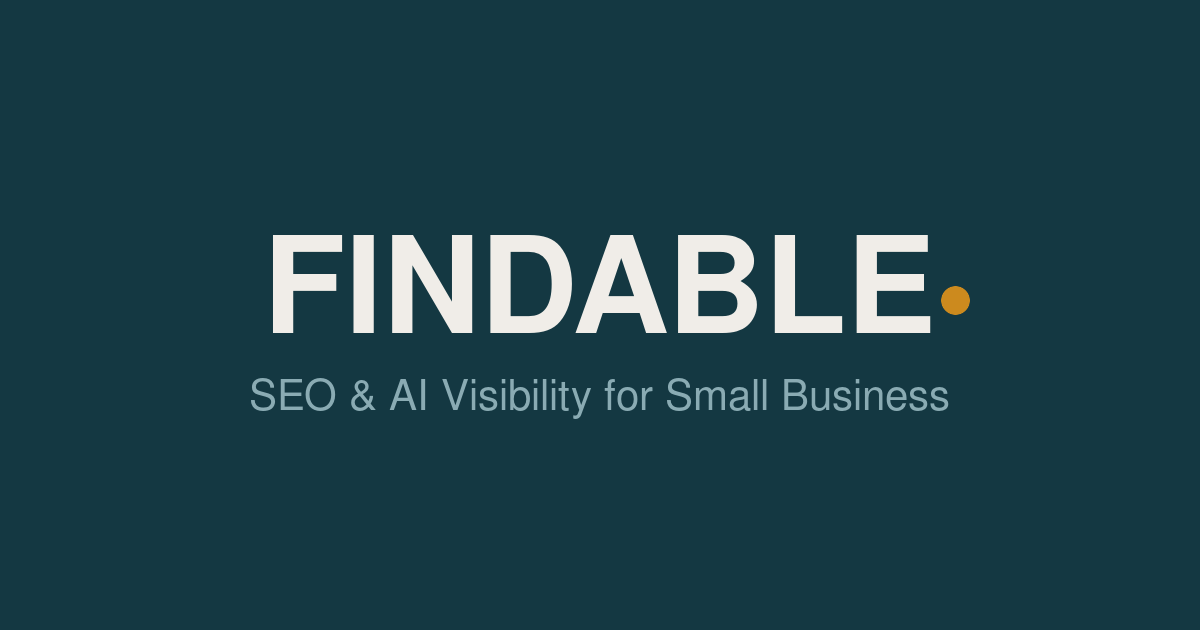
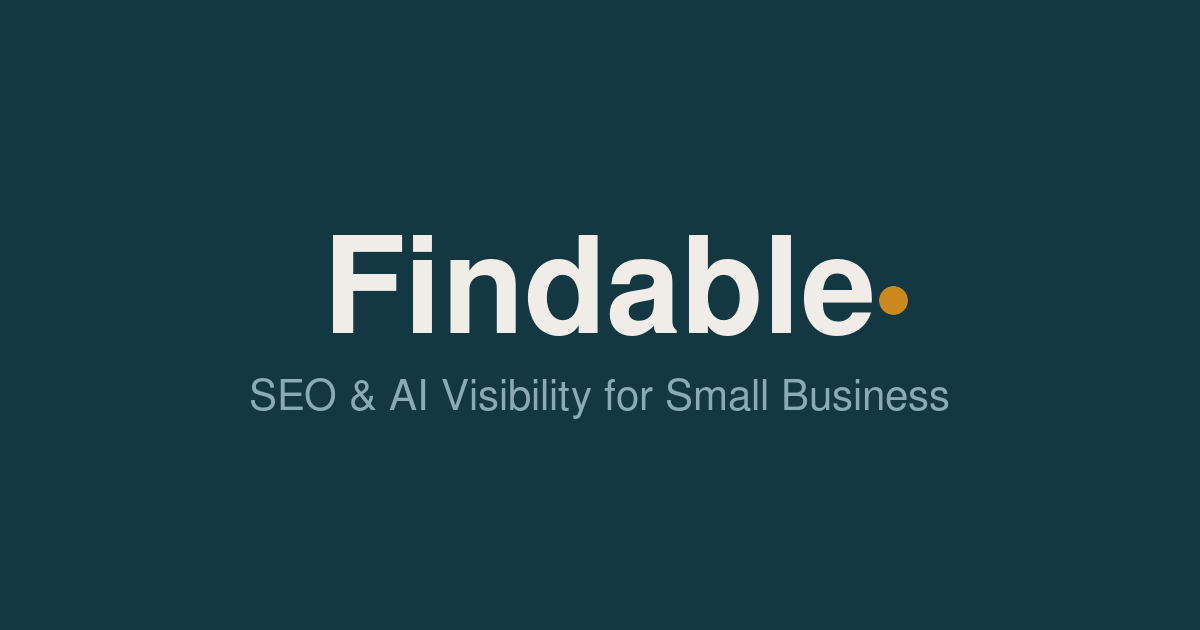
Revert to Findable. with original fonts, update OG image

Changed region(s): [[0.2158, 0.3619, 0.8325, 0.5429]]

diff --git a/index.html b/index.html
@@ -175,12 +175,10 @@
   }
   </script>
   <link rel="dns-prefetch" href="https://fonts.googleapis.com">
-  <link rel="dns-prefetch" href="https://fonts.cdnfonts.com">
   <link rel="preconnect" href="https://fonts.googleapis.com">
   <link rel="preconnect" href="https://fonts.gstatic.com" crossorigin>
-  <link href="https://fonts.cdnfonts.com/css/mosvita" rel="stylesheet">
-  <link rel="preload" as="style" href="https://fonts.googleapis.com/css2?family=Space+Grotesk:wght@400;500;600;700&display=swap" onload="this.onload=null;this.rel='stylesheet'">
-  <noscript><link href="https://fonts.googleapis.com/css2?family=Space+Grotesk:wght@400;500;600;700&display=swap" rel="stylesheet"></noscript>
+  <link rel="preload" as="style" href="https://fonts.googleapis.com/css2?family=Space+Grotesk:wght@400;500;600;700&family=Inter:wght@400;500;600&family=Outfit:wght@600;700;800;900&display=swap" onload="this.onload=null;this.rel='stylesheet'">
+  <noscript><link href="https://fonts.googleapis.com/css2?family=Space+Grotesk:wght@400;500;600;700&family=Inter:wght@400;500;600&family=Outfit:wght@600;700;800;900&display=swap" rel="stylesheet"></noscript>
   <style>
     *, *::before, *::after { margin: 0; padding: 0; box-sizing: border-box; }
 
@@ -202,7 +200,7 @@
     html { scroll-behavior: smooth; }
 
     body {
-      font-family: 'Mosvita', sans-serif;
+      font-family: 'Inter', sans-serif;
       background: var(--dark);
       color: var(--silver);
       line-height: 1.6;
@@ -234,7 +232,7 @@
     }
 
     .logo {
-      font-family: 'Mosvita', sans-serif;
+      font-family: 'Outfit', sans-serif;
       font-weight: 800;
       font-size: 1.2rem;
       letter-spacing: -0.5px;
@@ -329,7 +327,7 @@
     }
 
     .hero-title {
-      font-family: 'Mosvita', sans-serif;
+      font-family: 'Outfit', sans-serif;
       font-size: clamp(3.5rem, 10vw, 8rem);
       font-weight: 800;
       line-height: 1.0;
@@ -502,7 +500,7 @@
     }
 
     h2 {
-      font-family: 'Mosvita', sans-serif;
+      font-family: 'Outfit', sans-serif;
       font-size: clamp(2.5rem, 5vw, 4rem);
       font-weight: 800;
       letter-spacing: -1px;
@@ -550,7 +548,7 @@
     }
 
     .case-header .case-title {
-      font-family: 'Mosvita', sans-serif;
+      font-family: 'Outfit', sans-serif;
       font-size: clamp(2rem, 4vw, 3rem);
       font-weight: 800;
       color: var(--white);
@@ -583,7 +581,7 @@
     .stat-cell:hover { background: rgba(184,122,21,0.04); }
 
     .stat-cell .number {
-      font-family: 'Mosvita', sans-serif;
+      font-family: 'Outfit', sans-serif;
       font-size: clamp(2.5rem, 4vw, 3.5rem);
       font-weight: 800;
       color: var(--amber);
@@ -658,7 +656,7 @@
     }
 
     .client-name {
-      font-family: 'Mosvita', sans-serif;
+      font-family: 'Outfit', sans-serif;
       font-weight: 700;
       font-size: 1.15rem;
       color: var(--white);
@@ -773,7 +771,7 @@
       display: flex;
       align-items: center;
       justify-content: center;
-      font-family: 'Mosvita', sans-serif;
+      font-family: 'Outfit', sans-serif;
       font-weight: 700;
       font-size: 0.85rem;
       color: var(--amber);
@@ -809,7 +807,7 @@
     }
 
     .founder-sig .name {
-      font-family: 'Mosvita', sans-serif;
+      font-family: 'Outfit', sans-serif;
       color: var(--white);
       font-weight: 800;
       font-size: 1.2rem;
@@ -862,7 +860,7 @@
       top: 50%;
       left: 50%;
       transform: translate(-50%, -50%);
-      font-family: 'Mosvita', sans-serif;
+      font-family: 'Outfit', sans-serif;
       font-size: clamp(10rem, 25vw, 22rem);
       font-weight: 800;
       letter-spacing: -10px;
@@ -981,7 +979,7 @@
 
   <!-- NAV -->
   <nav class="main-nav" aria-label="Main navigation">
-    <a href="/" class="logo" aria-label="Findable - Home">FINDABLE<span>.</span></a>
+    <a href="/" class="logo" aria-label="Findable - Home">Findable<span>.</span></a>
     <div class="nav-links">
       <a href="#work">Work</a>
       <a href="#process">Process</a>
@@ -998,7 +996,7 @@
       <h1 class="hero-title">
         <span class="line"><span class="line-inner">Your business</span></span>
         <span class="line"><span class="line-inner">should be</span></span>
-        <span class="line"><span class="line-inner"><span class="accent">FINDABLE<span class="accent-dot">.</span></span></span></span>
+        <span class="line"><span class="line-inner"><span class="accent">Findable<span class="accent-dot">.</span></span></span></span>
       </h1>
       <p class="hero-sub">We get small businesses in front of customers on Google, ChatGPT, Gemini, Siri, and every AI assistant replacing the search bar.</p>
       <div class="hero-actions">
@@ -1151,7 +1149,7 @@
   <section class="final-cta" id="contact" aria-label="Contact">
     <div class="bg-text">FINDABLE</div>
     <div class="section-label reveal" style="justify-content:center">Ready?</div>
-    <h2 class="reveal">Let's make you<br><span style="color:var(--amber)">FINDABLE.</span></h2>
+    <h2 class="reveal">Let's make you<br><span style="color:var(--amber)">Findable.</span></h2>
     <p class="reveal">Free 15-minute consultation for an honest look at your online presence.</p>
     <a href="mailto:phil@deltaseven.io?subject=Free%20Consultation%20-%20Findable" class="cta-btn reveal">Book a Free Consultation &rarr;</a>
     <p class="contact-line reveal">Or call/text: <a href="tel:+12243438086">224-343-8086</a></p>
